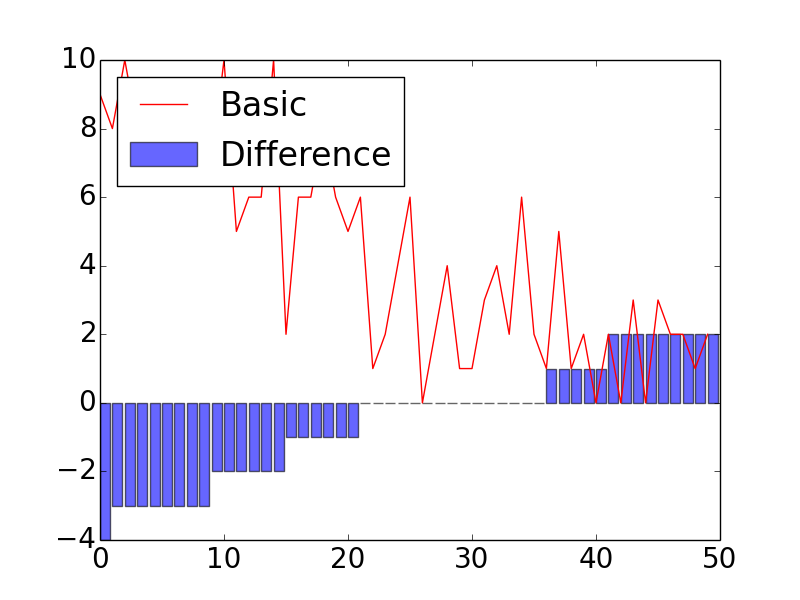
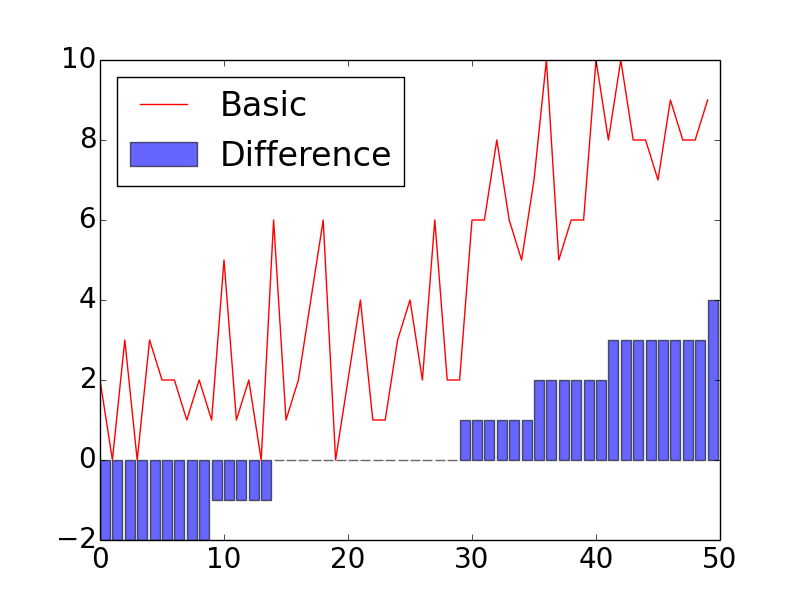
add anaRelDistr

diff --git a/scripts/analysis_0115/anaRelDistr.py b/scripts/analysis_0115/anaRelDistr.py
@@ -1,0 +1,242 @@
+"""
+We compute the probability of benefiting from switching sublists at a position
+of a ranked list assuming that a user is going down one of the sublists while
+making decisions with respect to rest of the unexplored lists. 
+
+Switching is beneficial when the E(gain@K)/E(effort@K) < E(gain@S)/E(effort@S)
+Assuming unit effort and gain.
+effort@K = 1 (examine), effort@S = 2 (switch + examine)
+gain@K = P(rel@K) * 1 
+gain@S = P(rel@S) * 1 where P(rel|S) only depends on the rank of the doc in that sublist 
+
+Probability of getting benefits from switching
+P(b@K) = # cases with benefits/#possible moves(including switching/continue) 
+
+We cannot enumerate all possible switchings. We do MC sampling.
+Users start with the first doc in the original list. 
+Then compute the expected benefit from switching. 
+If E(b) < 0, don't switch. 
+If E(b) > 0, switch randomly to one of the possible landing position.
+
+We do maximum X steps. 
+i.e., We sample the pathes of length X. 
+
+
+Probability that examine next at position K
+is the joint probability that one there is a document
+at position K, and the probability that a document at position K is relevant.
+
+
+Jan. 2015
+"""
+import sys
+sys.path.append('../trec_eval')
+import trec_util, NDCG
+import operator
+import itertools
+import numpy as np
+import pylab
+import random
+
+runfile = '../../data/testruns/nodup/run13.ql.nodup'
+qrelsfile = '../../data/FW13-QRELS-RM.txt'
+#categoryfile ='../data/resources-FW13-categorization.tsv'
+categoryfile = '../../data/official-resources-FW13-categorization.tsv'
+
+
+max_steps =100
+num_samples = 1000
+examine_effort = 1.
+switch_effort = 2.
+
+def load_categories(catefile):
+	f = open(catefile)
+	content = [d.split('\t') for d in f.readlines()]
+	f.close()
+	# category tuple: (site_id, category)	
+	categories = [(d[0], d[3].split(',')) for d in content]
+	return dict(categories)	
+
+def compute_ndcg(judged_list):
+	# compute the ndcg scores	
+	judge_b = [int(d>0) for d in judged_list]
+	judge_g = [d for d in judged_list]
+	n1 = NDCG.NDCG(judge_b)
+	n2 = NDCG.NDCG(judge_g)
+	ndcg_b = [[k, n1.ndcg(k)] for k in [1, 10, 20, len(judged_list)]]
+	ndcg_b[-1][0] = -1
+	ndcg_g = [[k, n2.ndcg(k)] for k in [1, 10, 20, len(judged_list)]]
+	ndcg_g[-1][0] = -1
+	return dict(ndcg_b), dict(ndcg_g)
+
+# sublists based on categories
+# each doc item is (docid, rank, relevance)
+# rank is the index in the list, i.e., starting from 0
+def create_sublists(docs, judge):
+	origin_list = [(d[0], d[1]-1, judge[d[1]-1]) for d in docs]
+	# compute the ndcg scores
+	judged_list = [d[2] for d in origin_list]	
+	ndcg_b, ndcg_g = compute_ndcg(judged_list)
+	B = [ndcg_b]
+	G = [ndcg_g]
+
+	# Assign categories to documents	
+	doc_cate = []
+	for d in origin_list:
+		cates = categories[d[0].split('-')[1]]
+		tmp = [(d, c) for c in cates]
+		doc_cate.extend(tmp)
+	#print doc_cate
+
+	sublists = [origin_list]	
+	# Group docs into sublists by category
+	doc_cate.sort(key=operator.itemgetter(1))
+	for k, g in itertools.groupby(doc_cate, lambda x: x[1]):
+		sublist = [d[0] for d in g] 
+		# sort by rank
+		sublist.sort(key=operator.itemgetter(1))
+		# Add to the sublists
+		sublists.append(sublist)
+		# Get NDCG for the sublist
+		judged_list = [d[2] for d in sublist]	
+		ndcg_b, ndcg_g = compute_ndcg(judged_list)
+		B.append(ndcg_b)
+		G.append(ndcg_g)	
+	return sublists, B, G		
+
+
+# Compute the probability of benefiting from examining at rank k
+# L is all the sublists aggregated  over all queries
+# P(rel|exam, k) = #rel@k/#count_doc@k
+# P(k exists) = #k exists/# sublists
+# As the sublists are of different lengths, we stop at K when 
+# the number of sublists at length K is smaller than 50.
+def compute_prob_rel_exam(L):
+	# first get the length of sublists
+	lengths = sorted([len(l) for l in L])
+	max_length = max(lengths)
+	# Get counts of sublists >= length K 
+	counts_length = dict([(i, 0) for i in range(0, max_length+1)])
+	exact_counts = dict([(k, len(list(g))) for k, g in itertools.groupby(lengths)])
+	for length in range(1, max_length+1):
+		# Add this count to the current length
+		current_count = exact_counts.get(length, 0)
+		counts_length[length] += current_count
+		# Sublist of current length is at least as long as
+		# its previous lists, so add this count to them
+		for l in range(1, length):
+			counts_length[l] += current_count 
+
+	# Now compute probability
+	P = {}
+	for position in range(1, max_length+1):
+#		if counts_length[position] < 50:
+#			break
+		count_docs = sum([1 if len(sublist)>position else 0 for sublist in L])
+			
+		rel_at_position = sum([int(sublist[position][2]>0) if len(sublist)>position else 0 for sublist in L])
+		p_rel_k = float(rel_at_position)/float(counts_length[position])
+		p_exist_k = float(counts_length[position])/len(lengths)
+		p = p_rel_k * p_exist_k
+		P[position] = p
+	return P
+
+
+# P contains the probability of seeing a relevant doc at rank K
+# LQ contains sublists of each query.
+# For each query we sample N samples of length X
+def sample_paths(sublist, P):
+	# Record in all the paths, how many times switching
+	# wins over examine at step X
+	# Note: P index starts from 1
+	counts_win = dict([(i, 0) for i in range(max_steps)])
+	for sample in range(num_samples):
+		# Start by randomly pick one sublist	
+		step = 0
+		# Candidates record the (list_id, position)
+		candidates = [[l, 0] for l in range(len(sublists))]
+		select = random.randint(0, len(candidates)-1)
+		candidates[select][1] += 1
+		while step < max_steps:
+			# Now start compute expected gain and effort
+			# If there is no more docs, then nothing to examine
+			if len(sublists[select])<candidates[select][1]:
+				examine_gain = 0
+				# remove this list from candidates
+				candidates.pop(select)
+			else:
+				examine_gain = P[candidates[select][1]+1]*1
+			examine_utility = examine_gain/examine_effort 	 
+			# For rest of the candidates, compute expected gain
+			for i in range(len(candidates)):
+				if i == select:
+					continue
+				switch_gain = P[candidates[i][1]+1]*1
+				switch_utility = switch_gain/switch_effort
+				if switch_utility > examine_utility:
+					counts_win[step] = counts_win.get(step, 0) + 1
+				
+			# Now sample next step
+			select = random.randint(0, len(candidates)-1)
+			candidates[select][1] += 1 	
+			step += 1
+
+	counts_win = [(c,counts_win[c]/float(num_samples)) for c in counts_win]
+	counts_win = sorted(counts_win, key=operator.itemgetter(0))
+	return dict(counts_win)
+
+# Load categories		
+categories = load_categories(categoryfile)
+
+if __name__ == '__main__':
+	run = trec_util.load_TREC_run(runfile)		
+	qrels = trec_util.load_qrels(qrelsfile)
+	judged_list = trec_util.judged_ranklist(run, qrels)
+
+	# An aggregated list of sublists over all queries
+	L = []
+	# Sublists per query
+	LQ = []
+	for q in run:
+		docs = q[1]
+		if not q[0] in judged_list:
+			continue
+		judge = judged_list.get(q[0])
+		sublists, B, G = create_sublists(docs, judge)
+		L += sublists
+		LQ.append(sublists)
+
+	# Some stats for the length of sublists	
+	#lengths = [len(l) for l in L]
+	#lengths = list(itertools.ifilter(lambda x: x<100, lengths))
+	#n, bins, patches = pylab.hist(lengths, 20)
+	#print 'sublists lengths: median=%s, min=%s, max=%s'%(np.median(lengths), min(lengths), max(lengths))
+	#compute_prob_rel_exam(L)
+
+	P = compute_prob_rel_exam(L)
+	QP = [[] for i in range(max_steps)]
+	# lopp over queries
+	for sublist in LQ:
+		# get probability of benefiting from switching at each step
+		p_win = sample_paths(sublist, P)
+
+		# aggregate over queries
+		for i in range(max_steps):
+			QP[i].append(p_win[i])
+	# Make a plot
+	X = [i for i in range(len(QP))]
+	Y = []
+	Y1 = []
+	Y2 = []
+	#loop over steps to get data to plot
+	for i in range(max_steps):
+		Y.append(np.median(QP[i]))
+		Y1.append(np.percentile(QP[i], 75))
+		Y2.append(np.percentile(QP[i], 25))
+
+	pylab.plot(X, Y)
+	pylab.fill_between(X, Y2, Y1, alpha=0.2)
+	
+	pylab.show()
+
+

diff --git a/scripts/simulate_user_gain.py b/scripts/simulate_user_gain.py
@@ -27,7 +27,7 @@ def generate_parameters():
 
 	# Change from simulation_user.py, here we will change user moves
 	#p = [[10, 'binary', '-1', 'User', 10, 'static', P.f_prior[2], P.moves]]	
-	p = itertools.product([10], ['binary'], [-1], ['User'], [10], ['static'], [P.f_prior[2]], P.moves)
+	p = itertools.product([10], ['binary'], [-1], ['User'], [10], ['static'], P.f_prior, P.moves)
 	p = list(p)
 
 	pa = [[i, list(p[i])] for i in range(len(p))]
@@ -201,7 +201,7 @@ if __name__ == '__main__':
 		pid = p[0]
 		line = ['%s'%x for x in p[1]]
 		if not (P.interface == 'basic') and not (line[6] == 'None'):
-			line[6] = 'NDCG'
+			line[6] = 'User'
 		#print line
 		outp.write('%s %s\n'%(pid, ' '.join(line)))
 	outp.close()

diff --git a/scripts/user_model/Parameters.py b/scripts/user_model/Parameters.py
@@ -19,7 +19,8 @@ ndcg = lambda x: x
 user = lambda x: x
 # Option user is used when user data is used to compute the parameters.
 #f_prior = [None, ndcg, user]
-f_prior = [None, ndcg]
+#f_prior = [None, ndcg]
+f_prior = [user]
 
 # We decided to leave out option dynamic for all experiments.
 #f_model_type = ['static', 'dynamic']
@@ -48,8 +49,8 @@ task_length = [-1]
 # Our user experiment was using task_length=10
 #task_length = [10]
 
-#interface = 'category' 
-interface = 'basic'
+interface = 'category' 
+#interface = 'basic'
 
 # ========== Gain parameter =======
 # This is a parameter specific to gain based experiments
